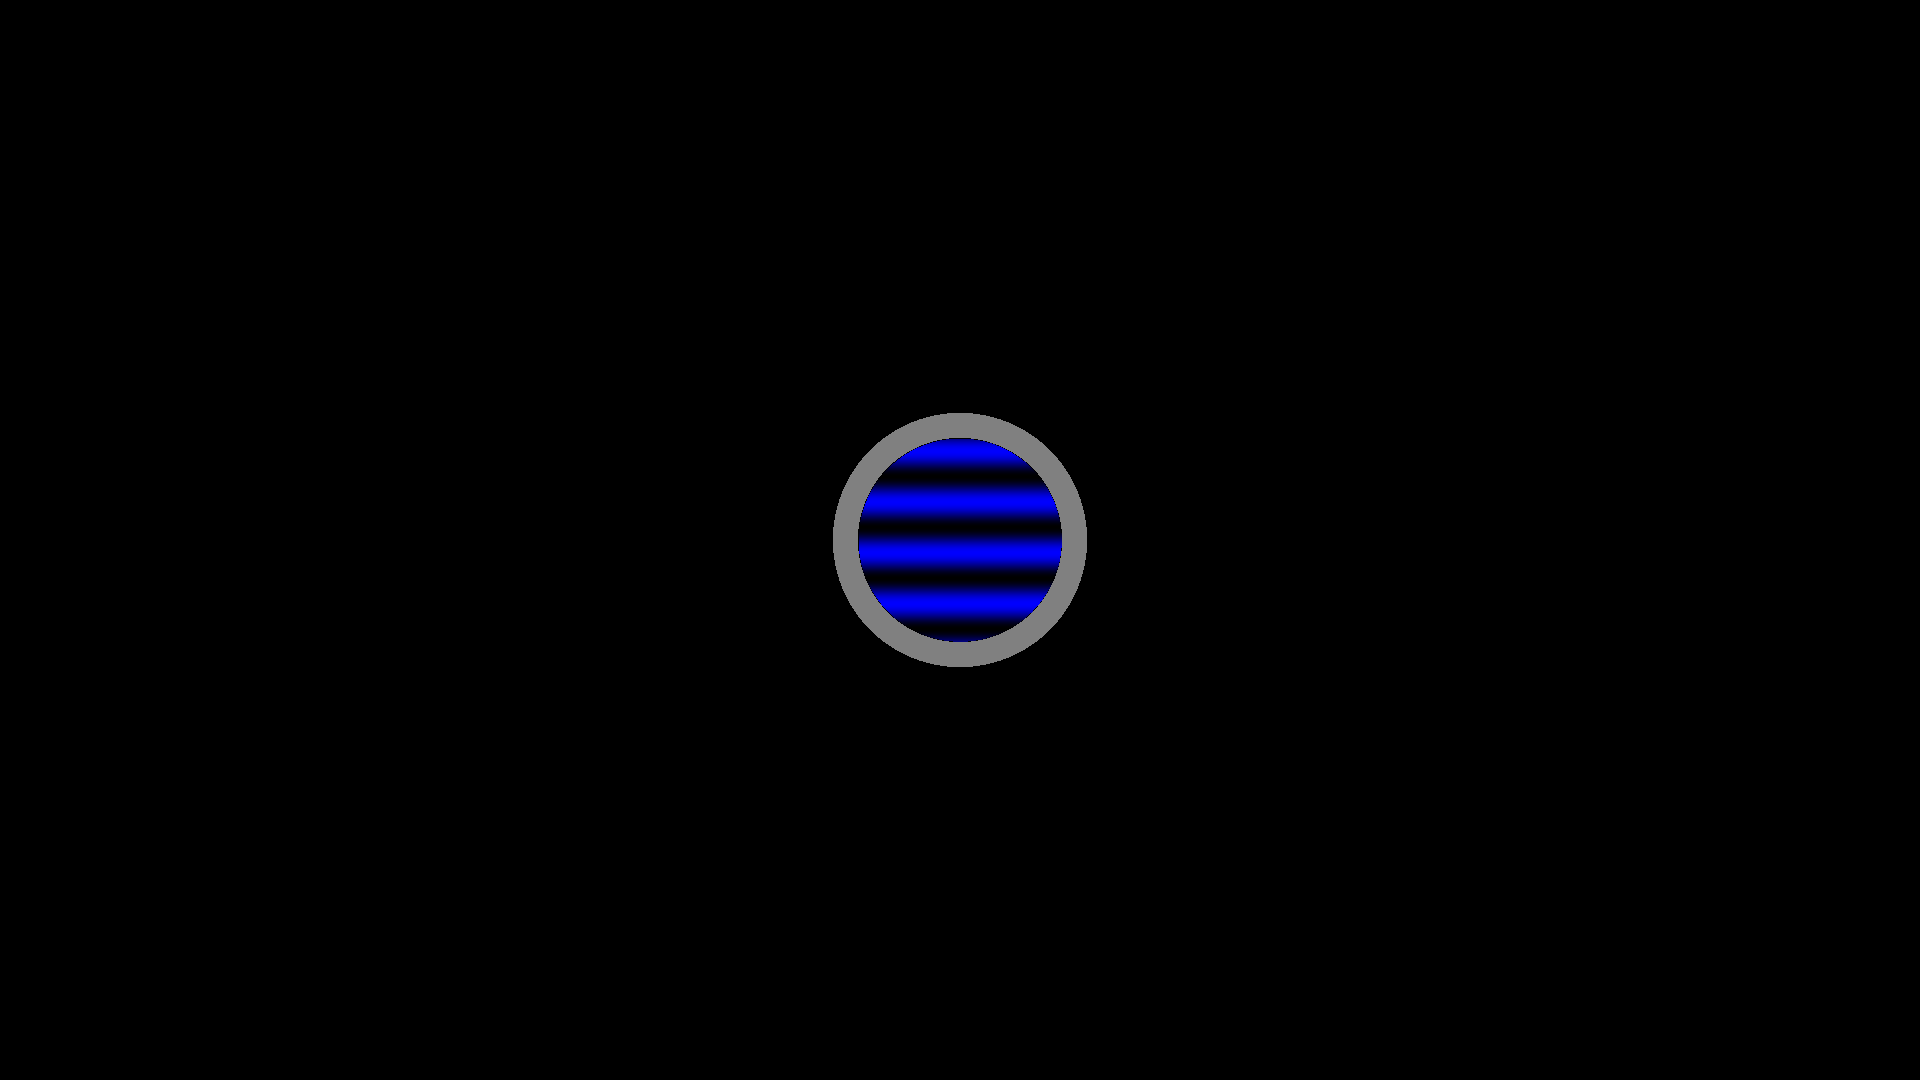
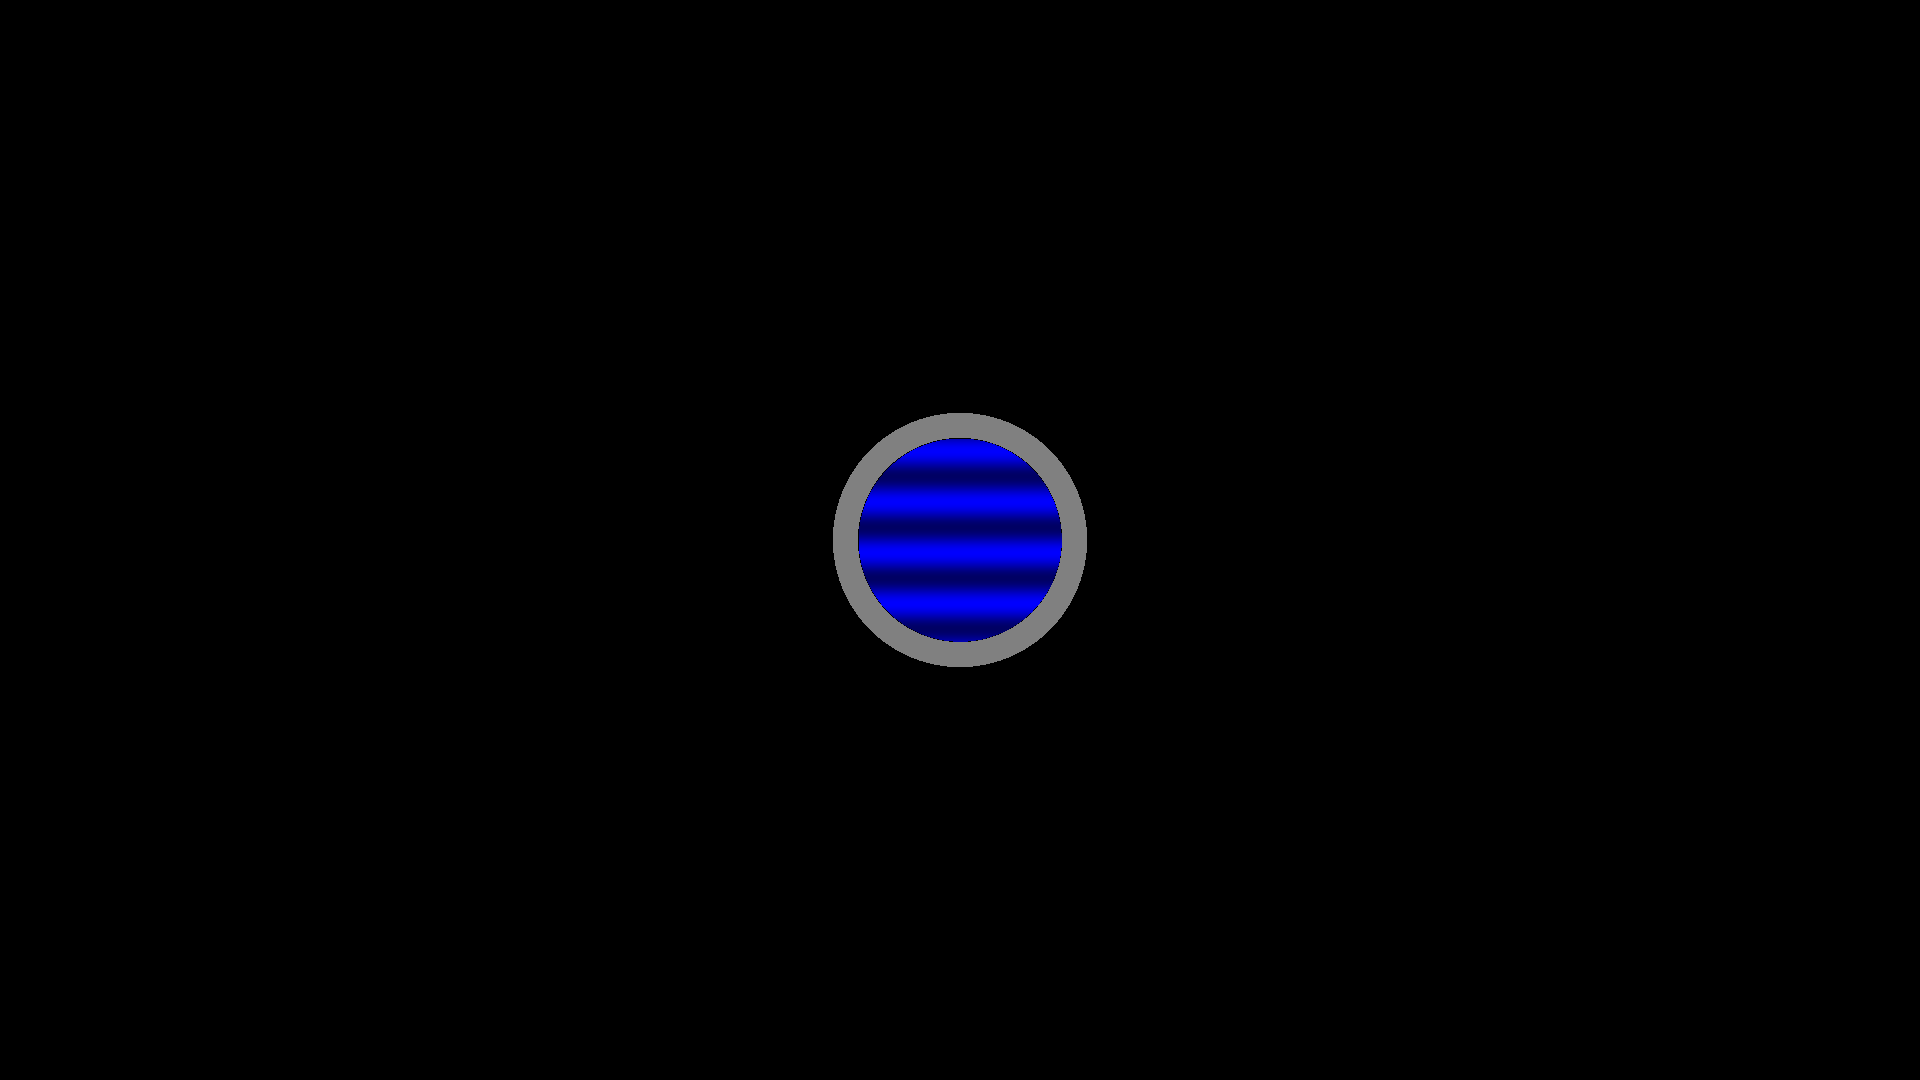
added parameter you can change the minimum contrast intensity

Changed region(s): [[0.4375, 0.3972, 0.5625, 0.6111]]

diff --git a/binoriv_stimulus.m b/binoriv_stimulus.m
@@ -1,5 +1,6 @@
 % Set Parameters corresponding to your environment and whatever you want
 % Create a stimulus and save as an image file
+% !Currently assuming left:right=red:blue
 % Author: Ryo Segawa (whizznihil.kid@gmail.com)
 
 % Uncomment out in case you want to run screen function, but your pc is not powerful to
@@ -15,8 +16,10 @@ annulus = 1; % 0: no annulus; 1: annulus
 
 dist_scr = 42; % distance from screen (cm)
 radius_gra = 5; % radius of grating circle (deg)
-cont_l = 255/2; % contrast intensity [1 255]; 255 is the strongest
-cont_r = 255; % contrast intensity [1 255]; 255 is the strongest
+max_intensity_l = 255/2; % max contrast intensity [0 255]; 255 is the strongest
+max_intensity_r = 255; 
+bgint_l = 100/2; % min grating contrast intensity [0 255]
+bgint_r = 100; 
 
 %% Define grating stimulus
 prompt = 'How many inches is the screen?: ';
@@ -60,6 +63,7 @@ xysize_annulus = xysize/2 + lineWidth;
 ann_rect = [rect(3)/2-xysize_annulus rect(4)/2-xysize_annulus rect(3)/2+xysize_annulus rect(4)/2+xysize_annulus];
 lineColour = [255*0.5 255*0.5 255*0.5]; % outline colour
 
+% colour of gratings
 image_mono_v = zeros(round(xysize),round(xysize),3);
 image_mono_h = zeros(round(xysize),round(xysize),3);
 image_bino = zeros(round(xysize),round(xysize),3);
@@ -68,17 +72,17 @@ image_bino = zeros(round(xysize),round(xysize),3);
 circle = x.^2 + y.^2 <= xylim^2; % circular boundry
 % create gratings
 %image_mono_v(:,:,1) = 255; % R channel; 255 is max contrast
-image_mono_v(:,:,1) = (sin(x)+1)/2*cont_l .* circle; % R channel; 255 is max contrast
+image_mono_v(:,:,1) = (bgint_l + (sin(x)+1)*(max_intensity_l-bgint_l)/2) .* circle; %(sin(x)+1)/2*max_intensity_l .* circle; % R channel; 255 is max contrast
 %image_mono_v(:,:,2) = (sin(x)+1)/2*cont_l .* circle; % G channel
 %image_mono_v(:,:,3) = (sin(x)+1)/2*cont_l .* circle; % B channel
 %image_mono_v(:,:,4) = 255*0.5; % alpha chanel (transparency); the drawing destination in perceptual
 %image_mono_h(:,:,1) = (sin(y)+1)/2*cont_r .* circle;
 %image_mono_h(:,:,2) = (sin(y)+1)/2*cont_r .* circle;
 %image_mono_h(:,:,3) = 255;
-image_mono_h(:,:,3) = (sin(y)+1)/2*cont_r .* circle;
+image_mono_h(:,:,3) = (bgint_r + (sin(y)+1)*(max_intensity_r-bgint_r)/2) .* circle; %(sin(y)+1)/2*max_intensity_r .* circle;
 %image_mono_h(:,:,4) = 255*0.5; % alpha chanel (transparency)
-image_bino(:,:,1) = (sin(x)+1)/2*cont_l .* circle;
-image_bino(:,:,3) = (sin(y)+1)/2*cont_r .* circle;
+image_bino(:,:,1) = (bgint_l + (sin(x)+1)*(max_intensity_l-bgint_l)/2) .* circle;
+image_bino(:,:,3) = (bgint_r + (sin(y)+1)*(max_intensity_r-bgint_r)/2) .* circle;
 
 mono_v = Screen('MakeTexture', w, image_mono_v);
 mono_h = Screen('MakeTexture', w, image_mono_h);
